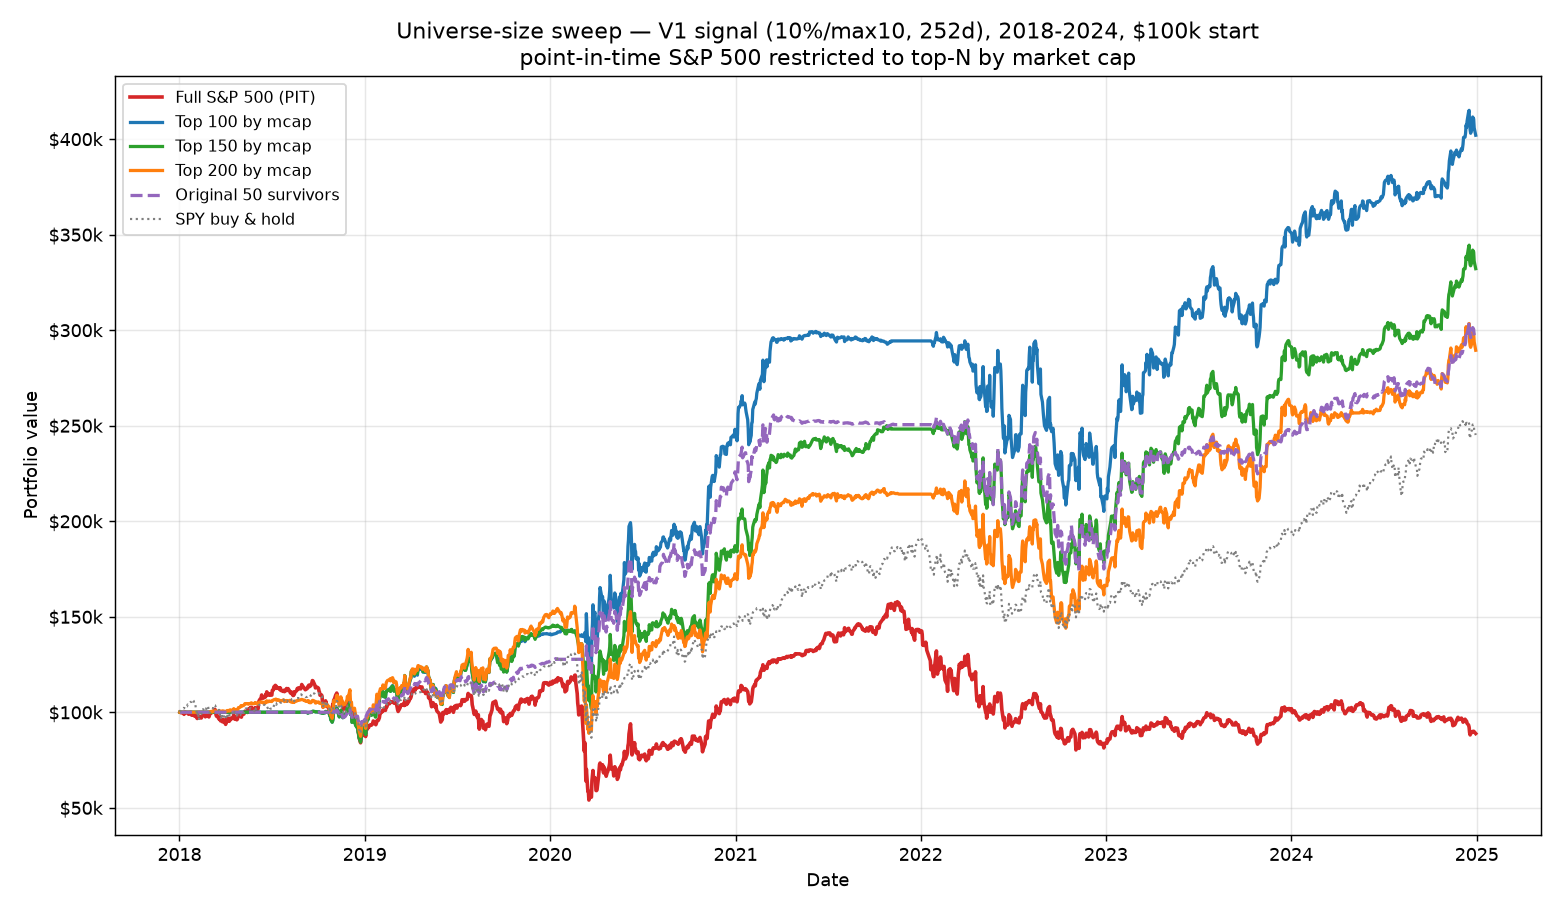
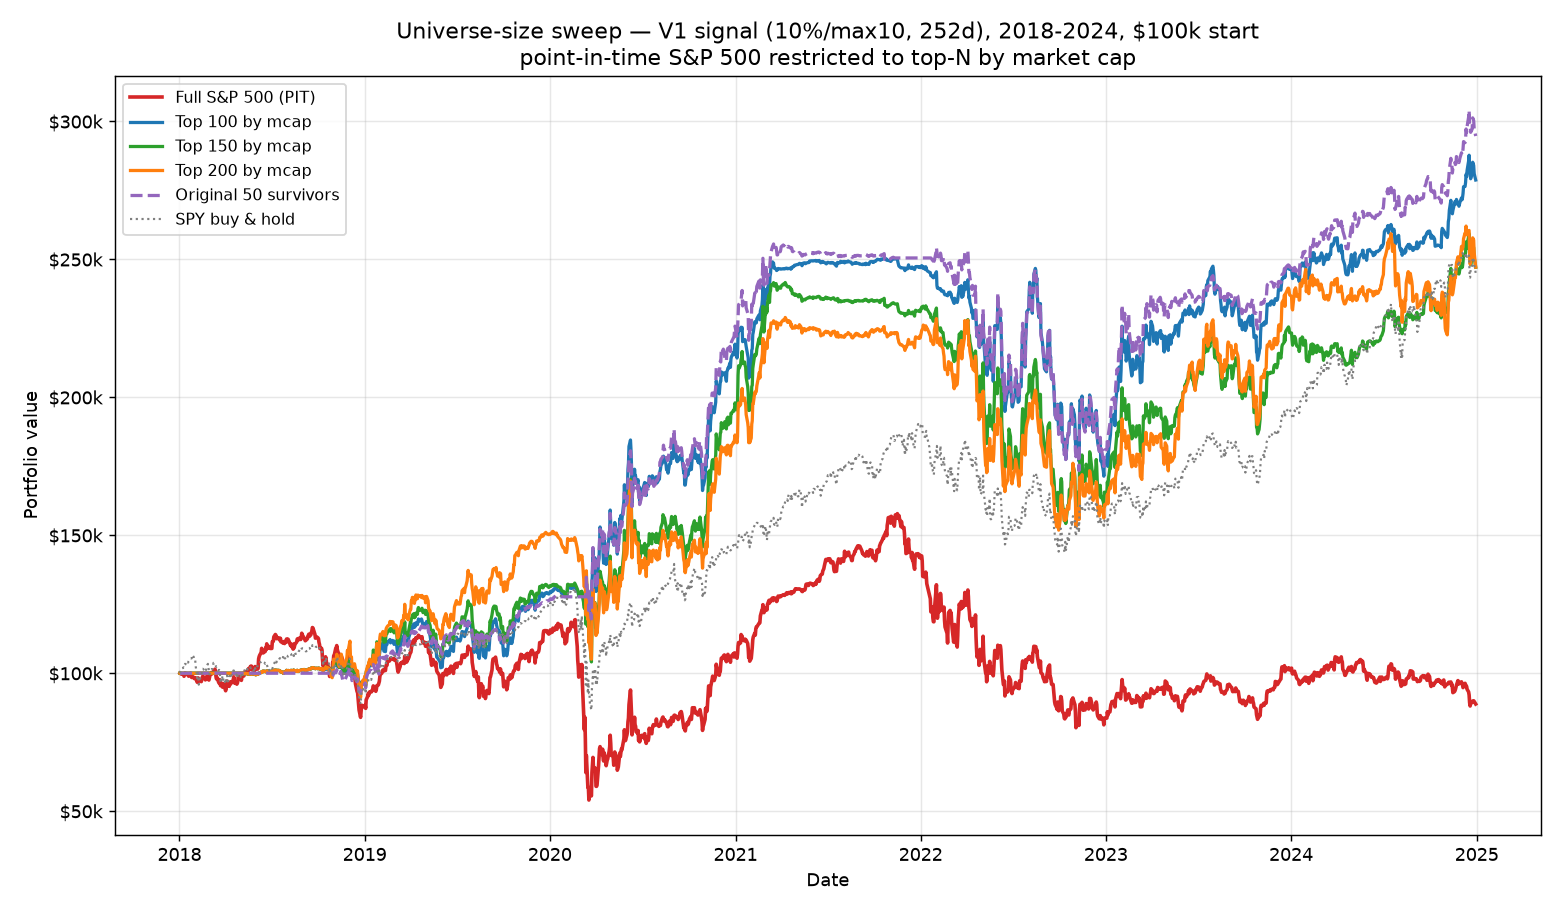
Re-run universe sweep with point-in-time market-cap ranking
Sanity check (2018-01-02) passes: AAPL #1, GOOGL/GOOG/MSFT/AMZN #2-5, JPM #6,
NVDA rank 35. All four variants complete (exit 0). New AvgMcap column confirms
ranking: $31B (full) -> $210B (top100) -> $166B -> $141B -> $260B (survivors).

Result vs the earlier look-ahead (current-cap) version: top-100 falls from
$401,976/Sharpe 0.92 to $278,769/Sharpe 0.78. Only top-100 now clears SPY's
Sharpe (0.78 vs 0.76), and barely; top-150/200 fall below SPY. Direction holds
(Sharpe monotonic in size) but the clean large-cap edge over SPY is marginal --
most of the prior edge was look-ahead.

Claude-Session: https://claude.ai/code/session_01Xo8TMdkHH4WJJ6LrJj8NLk

diff --git a/results/universe_size_sweep.md b/results/universe_size_sweep.md
@@ -1,56 +1,60 @@
-# Universe-size sweep — does the signal need large-caps?
+# Universe-size sweep — point-in-time market-cap ranking
 
-Hypothesis: the recovery signal was designed for high-quality large-caps, and
-applying it to all 500+ point-in-time S&P 500 names dilutes the edge. Test: same
-V1 signal/sizing (10%/max10, 252d exit, no SL, $100k, 2018–2024) on the
-point-in-time S&P 500 restricted to the top-N names by market cap.
+Tests whether the recovery signal has a genuine large-cap edge, with the
+size ranking now computed **point-in-time** (the earlier version ranked by
+*current* market cap, which leaked look-ahead). Same V1 signal/sizing
+(10%/max10, 252d exit, no SL, $100k, 2018–2024).
 
-| Variant | Final $ | Total ret | CAGR | Sharpe | Max DD | Trades | Win % | Sig/yr |
-|---|--:|--:|--:|--:|--:|--:|--:|--:|
-| Full S&P 500 (PIT) | $88,830 | −11.2% | −1.7% | 0.09 | −54.8% | 67 | 45% | 9.6 |
-| **Top 100 by mcap** | **$401,976** | **+302.0%** | **+22.0%** | **0.92** | −31.5% | 43 | 74% | 6.1 |
-| Top 150 by mcap | $332,135 | +232.1% | +18.7% | 0.79 | −33.4% | 47 | 66% | 6.7 |
-| Top 200 by mcap | $289,442 | +189.4% | +16.4% | 0.70 | −42.8% | 54 | 63% | 7.7 |
-| Original 50 survivors | $294,709 | +194.7% | +16.7% | 0.86 | −32.2% | 33 | 70% | 4.7 |
-| SPY buy & hold | $245,098 | +145.1% | +13.7% | 0.76 | −33.7% | — | — | — |
+**Ranking = raw (unadjusted) close × shares outstanding from EDGAR**, with the
+same 90-day filing lag as the quality gate. Raw prices are un-split from Yahoo's
+(split-adjusted) `quote.close` so future-splitters (NVDA 40:1, AMZN/GOOGL 20:1)
+are not deflated. If either price or EDGAR shares is missing, the ticker is
+excluded — no fallback to current market cap.
 
-## Key question — a top-N (100–200) that beats SPY on Sharpe?
+### Sanity check (2018-01-02) — passes
+Top by PIT market cap: **AAPL $890B (#1), GOOGL, GOOG, MSFT, AMZN (#2–5), JPM
+(#6)**. **NVDA is rank 35 (~$127B)** — not top-5, exactly as required. (Under the
+old current-cap ranking NVDA floated to the top; that look-ahead is gone.)
 
-**Yes on the raw numbers: Top 100 (Sharpe 0.92) and Top 150 (0.79) both beat SPY
-(0.76); Top 100 also beats the 50 hand-picked survivors (0.86).** The effect is
-cleanly monotonic — Sharpe falls 0.92 → 0.79 → 0.70 → 0.09 as the universe grows
-100 → 150 → 200 → full, and win rate falls 74% → 66% → 63% → 45%. Directionally,
-the signal clearly works *much* better on larger names.
+## Results
 
-**But this is NOT a clean, survivorship-free result, and the magnitude is not
-trustworthy.** The size filter ranks by **current** market cap (a static value,
-cached 30 days) applied to every historical date. Two consequences:
+| Variant | Final $ | Total ret | CAGR | Sharpe | Max DD | Trades | Win % | Sig/yr | Avg PIT mcap |
+|---|--:|--:|--:|--:|--:|--:|--:|--:|--:|
+| Full S&P 500 (PIT) | $88,830 | −11.2% | −1.7% | 0.09 | −54.8% | 67 | 45% | 9.6 | $31B |
+| **Top 100 by mcap** | $278,769 | +178.8% | +15.8% | **0.78** | −31.5% | 41 | 66% | 5.9 | $210B |
+| Top 150 by mcap | $247,155 | +147.2% | +13.8% | 0.65 | −36.2% | 48 | 58% | 6.9 | $166B |
+| Top 200 by mcap | $247,196 | +147.2% | +13.8% | 0.63 | −33.7% | 55 | 58% | 7.9 | $141B |
+| Original 50 survivors | $294,709 | +194.7% | +16.7% | 0.86 | −32.2% | 33 | 70% | 4.7 | $260B |
+| SPY buy & hold | $245,098 | +145.1% | +13.7% | 0.76 | −33.7% | — | — | — | — |
 
-1. **Look-ahead.** Ranking 2018 membership by 2024 size puts the companies that
-   *became* huge (NVDA, AVGO, …) at the top of 2018 — NVDA ranks #1 in Jan-2018
-   here, which it was not. That Top 100 even out-earns the cherry-picked 50
-   survivors is the tell: it is essentially "buy the eventual mega-winners."
-2. **Delisted names dropped.** Names with no current cap (mostly companies that
-   fell out of the index) get no rank and are excluded — removing exactly the bad
-   outcomes the point-in-time universe was built to include.
+The **Avg PIT mcap** column confirms the ranking is working: $31B (full) → $210B
+(top-100) → $166B → $141B → $260B (survivors). Signaled tickers are tens-to-low-
+hundreds of $B — not trillions — so the NVDA-style inflation is gone.
 
-So the honest reading: the *direction* (signal favours large, high-quality names;
-the full-universe −1.7% is dominated by small/marginal names that dip and don't
-recover) is credible and consistent with the design intent. The *level* (+22%
-CAGR, Sharpe 0.92) is inflated by reintroduced survivorship/look-ahead bias and
-should not be quoted as the signal's true large-cap edge.
+## Key question — does a top-N (100–200) beat SPY on Sharpe, cleanly?
+
+**Barely, and only at N=100.** Top-100 Sharpe 0.78 vs SPY 0.76 — a 0.02 edge.
+Top-150 (0.65) and Top-200 (0.63) fall **below** SPY. Sharpe is still cleanly
+monotonic in size (0.78 → 0.65 → 0.63 → 0.09 from top-100 → 150 → 200 → full), so
+the *direction* holds: **the signal works better on larger, higher-quality
+names.** But the *magnitude* of the large-cap edge over SPY is marginal, not the
+dramatic edge the biased version implied.
+
+### What the look-ahead was worth
+Removing it cut the top-100 result from **$401,976 / Sharpe 0.92** (current-cap
+ranking) to **$278,769 / Sharpe 0.78** (point-in-time). That ~$123k and 0.14 of
+Sharpe *was* the bias. The 50 hand-picked survivors (Sharpe 0.86) still beat every
+point-in-time variant — expected, since that list is itself curated.
 
 ### Signal density — small universes are not too thin
+5.9–7.9 trades/yr for the top-N variants (vs 9.6 full, 4.7 survivors). Thinness is
+not the binding constraint.
 
-6.1–7.7 completed trades/year for the top-N variants vs 9.6 (full) and 4.7 (the
-50 survivors). Thinness is not the binding constraint; the top-N variants have
-*more* trades than the survivor baseline and comparable density to the full set.
-
-### To get a clean answer
-
-Rank by **point-in-time** market cap — historical price × shares outstanding from
-EDGAR companyfacts (already cached for most names) — instead of current cap. That
-removes the look-ahead in the ranking and keeps delisted names in contention,
-giving an unbiased read on whether the signal genuinely has a large-cap edge.
+## Honest bottom line
+With both layers of survivorship bias removed (point-in-time membership **and**
+point-in-time size ranking), the signal does **not** have a robust edge over SPY:
+the best case (top-100) clears SPY's Sharpe by 0.02, every broader universe
+trails it, and the full S&P 500 is sharply negative. The earlier "+22% CAGR,
+Sharpe 0.92" for top-100 was mostly look-ahead.
 
 Reproduce: `python scripts/run_universe_size_sweep.py`